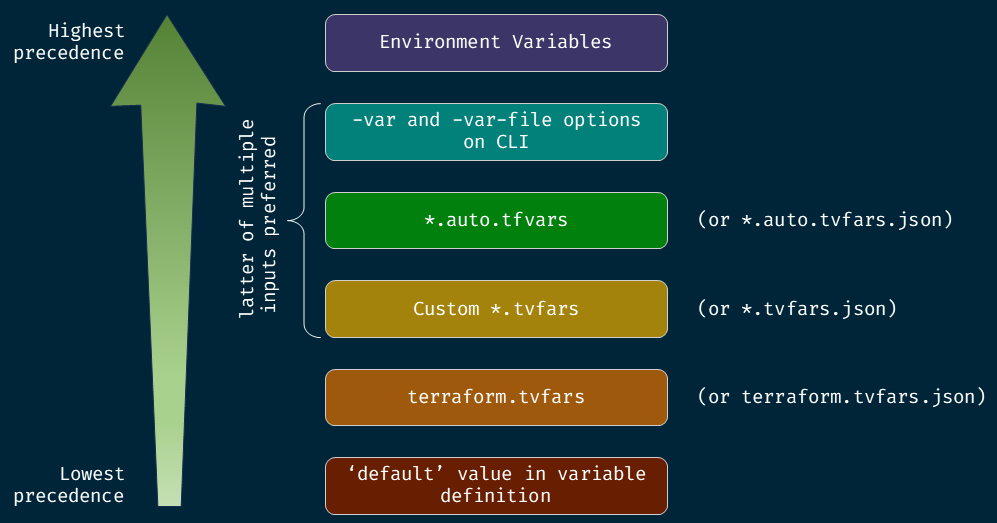
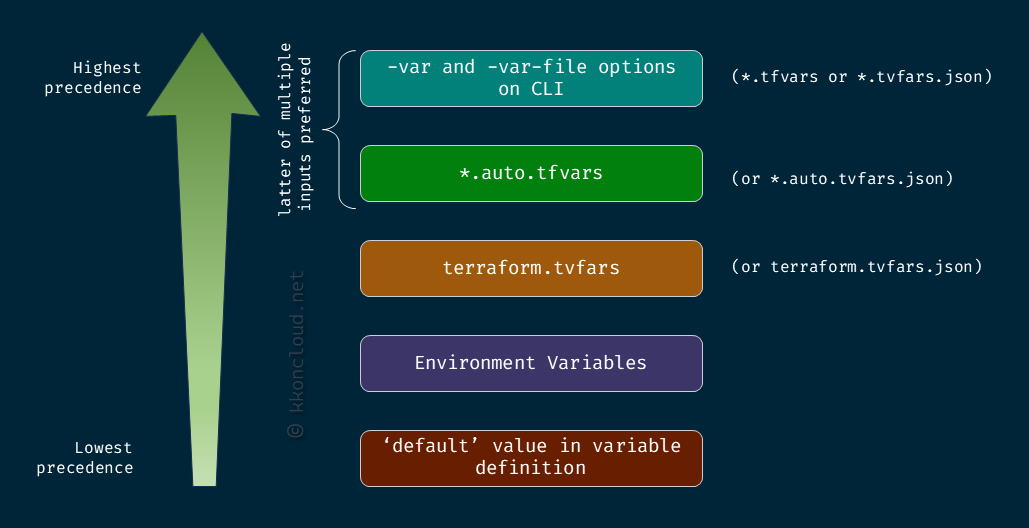
complete tf var input precedence post

diff --git a/content/posts/2023-03-04-tf-var-precedence.md b/content/posts/2023-03-04-tf-var-precedence.md
@@ -2,13 +2,299 @@
 title = 'Order of precedence of variables in Terraform'
 date = 2023-03-04
 draft = false
+tags = [
+    "terraform",
+    "iac",
+    "devops"
+    ]
+toc = true
 +++
 
-## Introduction
+## Variables in Terraform
 
-This is **bold** text, and this is *emphasized* text.
+Variables (more specifically input variables), as in most programming languages, are objects that can hold temporary values of different types that can passed to the program. They allow us to generate different outputs or functionality from a code while keeping the code consistent based on the values provided at the time of execution.
 
-Visit the [Hugo](https://gohugo.io) website!
+Since Terraform is a directory based infrastructure-as-code tool, it evaluates all of the relevant configuration files in a directory at the time of execution. Terraform configuration can be included in a single configuration file or split into multiple files for ease or organizing. This feature combined with the ability to call [modules](https://developer.hashicorp.com/terraform/language/modules) introduces a slight complexity with variables as a single variable can be declared from a host of locations.
+
+This post is to understand how duplicate varibles are evaluated and what is the order of precedence when an input variable is provided at multiple locations.
+
+![](/images/001-tf-var-precedence.png)
+
+The above image summarizes the different locations we can input variables from and the order of precedence. Let's try this out using a very basic Terraform code that takes an input variable and outputs a formatted string that shows the location of the variable.
+
+### Step 1: Current file structure and file content
+
+To test this flow, I have some Terraform config files in a folder as shown below.
+
+{{< highlight bash >}}
+> tree
+.
+├── main.tf
+├── prod.tfvars
+├── secrets.auto.tfvars
+├── shared.tfvars
+├── terraform.tfvars
+└── variables.tf
+
+0 directories, 6 files
+{{< /highlight >}}
+
+Config files `'main.tf'` and `'variables.tf'` are populated with minimal code that takes in two variables called `source_of_var_1` and `source_of_var_2` and then prints them out in the Terraform outputs. We will input the same variables from multiple locations and the variables have values in a way to help us identify which file or location Terraform is picking the variable from. The rest of the files are initially empty.
 
 
-![TF](images/001-tf-var-precedence.png)
+{{< highlight hcl >}}
+#main.tf
+
+locals {
+  finding_source_of_var_1 = var.source_of_var_1
+  finding_source_of_var_2 = var.source_of_var_2
+}
+
+output "source_of_var_out_1" {
+  value = "The source of the variable_1 is ${local.finding_source_of_var_1}"
+}
+
+output "source_of_var_out_2" {
+  value = "The source of the variable_2 is ${local.finding_source_of_var_2}"
+}
+{{< /highlight >}}
+
+{{< highlight hcl >}}
+#variables.tf
+
+variable "source_of_var_1" {
+  type = string
+  default = "file_variables.tf"
+}
+
+variable "source_of_var_2" {
+  type = string
+  default = "file_variables.tf"
+}
+{{< /highlight >}}
+
+
+### Step 2: Inputting the variable as default value in definition in variables.tf.
+To start off, I am providing default value for both of the input variables as part of the variabe definition in `'variables.tf'` as highlighted above.
+
+When I execute the Terraform code, we can see that it picks up the and outputs the correct variable as defined.
+
+{{< highlight bash >}}
+> terraform plan
+
+Changes to Outputs:
+  + source_of_var_out_1 = "The source of the variable_1 is file_variables.tf"
+  + source_of_var_out_2 = "The source of the variable_2 is file_variables.tf"
+{{< /highlight >}}
+
+### Step 3: Inputting the variable value via Environmental Variables
+Terraform has options to  set different environmental variables in our operating system that controls the Terraform log debugging level, path to save logs etc along with some input variables that can be passed on to Terraform at the time of execution. This is helpful when we have dedicated machines to run Terraform for specific workspaces/environments. This allows these variables to be securely used for deployment while being excluded from the Terraform files.
+
+First is an example of how we set the environment variables for Terraform and verify.
+
+{{< highlight bash >}}
+> export TF_VAR_source_of_var_1=environment_variables
+> export TF_VAR_source_of_var_2=environment_variables
+> > echo $TF_VAR_source_of_var_1
+environment_variables
+> > echo $TF_VAR_source_of_var_2
+environment_variables
+{{< /highlight >}}
+
+Now when we run Terraform without any additional inputs, we can see that Terraform prefers the environmental variables over the default variable definitions.
+
+{{< highlight bash >}}
+> terraform plan
+
+Changes to Outputs:
+  + source_of_var_out_1 = "The source of the variable_1 is environment_variables"
+  + source_of_var_out_2 = "The source of the variable_2 is environment_variables"
+{{< /highlight >}}
+
+### Step 4: Inputting the variable value via terraform.tfvars
+Now we keep all configuration as it is but introduce the same variable `source_of_var_1` in the file `'terraform.tfvars'` but with a different value. This is a special file that Terraform automatically picks up when executed, as long as it is in the working directory.
+
+Below are the contents of `'terraform.tfvars'`.
+
+{{< highlight hcl >}}
+#terraform.tfvars
+
+source_of_var_1 = "file_terraform.tfvars"
+{{< /highlight >}}
+
+When we execute Terraform, we can see that for the common variables present in `'variables.tf'` and `'terraform.tfvars'`, the latter is preferred but for those that are not common, Terraform falls back to the default value in `'variables.tf'` as seen below.
+
+{{< highlight bash >}}
+> terraform plan
+
+Changes to Outputs:
+  + source_of_var_out_1 = "The source of the variable_1 is file_terraform.tfvars"
+  + source_of_var_out_2 = "The source of the variable_2 is environment_variables"
+{{< /highlight >}}
+
+### Step 4: What about *.auto.tfvars files ?
+
+For some use cases where we want to input senstive variables such as passwords, we can move just those variables into a different kind of vars files named `'*.auto.tfvars'`. These can then be excluded from being checked into version-control/Github. Similar to the `'terraform.tfvars'` file which is automatically loaded by Terraform, all of the `'*.auto.tfvars'` in the working directory are loaded for use by Terraform at the time of execution. The variables in the `'*.auto.tfvars'` files have higher precedence than `'terraform.tfvars'`.
+
+I'm introducing a new value to the variable `source_of_var_1` via `'secrets.auto.tfvars'` which has been empty until now.
+
+{{< highlight hcl >}}
+#secrets.auto.tfvars
+
+source_of_var_1 = "file_secrets.auto.tfvars"
+{{< /highlight >}}
+
+The result of this on the Terraform execution is as follows.
+
+{{< highlight bash >}}
+> terraform plan
+
+Changes to Outputs:
+  + source_of_var_out_1 = "The source of the variable_1 is file_secrets.auto.tfvars"
+  + source_of_var_out_2 = "The source of the variable_2 is environment_variables"
+{{< /highlight >}}
+
+In cases of multiple `'*.auto.tfvars'` files, the common input variables are picked from the files have names that are alphabetically later/higher get more precedence. Follow the example below to understand. I'm introducing a new value to the same variable `source_of_var_1` via a new file `'top_secrets.auto.tfvars'`. Since the letter 't' is lexicographically later to the letter 's', this file shoule be more preferred than `'secrets.auto.tfvars'`.
+
+{{< highlight hcl >}}
+#top_secrets.auto.tfvars
+
+source_of_var_1 = "file_top_secrets.auto.tfvars"
+{{< /highlight >}}
+
+{{< highlight bash >}}
+> terraform plan
+
+Changes to Outputs:
+  + source_of_var_out_1 = "The source of the variable_1 is file_top_secrets.auto.tfvars"
+  + source_of_var_out_2 = "The source of the variable_2 is environment_variables"
+{{< /highlight >}}
+
+As we can see, without even mentioning the names of the `'*.auto.tfvars'` anywhere, Terraform has picked up both the `'*.auto.tfvars'` files and preferred the input variable from `'top_secrets.auto.tfvars'` as explained above.
+
+
+### Step 5: Inputting the variable values via custom variables file *.tfvars
+Now we move forward and introduce the same variable `source_of_var_1` in a custom vars file called `'prod.tfvars'`. This is a custom file and is not automatically used by Terraform at the time of execution. Such files may typically be used when introducing a few variables that need to be introduced at the time deployment in some cases but not are not part of the core/base deployment. For example, when we want to separate variables belonging to different environments such as prod, dev, stage etc.
+
+{{< highlight hcl >}}
+#prod.tfvars
+
+source_of_var_1 = "file_prod.tfvars"
+{{< /highlight >}}
+
+When we run Terraform, this value from `'prod.tfvars'` is not used by default and Terraform falls back to the next best preferences, that are `'*.auto.tfvars'` > `'terraform.tfvars'` > 'environmental variables' > 'default variable defintion', in that order.
+
+{{< highlight bash >}}
+> terraform plan
+
+Changes to Outputs:
+  + source_of_var_out_1 = "The source of the variable_1 is file_top_secrets.auto.tfvars"
+  + source_of_var_out_2 = "The source of the variable_2 is environment_variables"
+{{< /highlight >}}
+
+When using custom vars file, we need to specify the file name as an arguement in the command line.
+
+{{< highlight bash >}}
+> terraform plan -var-file="prod.tfvars"
+
+Changes to Outputs:
+  + source_of_var_out_1 = "The source of the variable_1 is file_prod.tfvars"
+  + source_of_var_out_2 = "The source of the variable_2 is environment_variables"
+{{< /highlight >}}
+
+### Step 5: What happens when there are multiple custom *.tfvars files ?
+
+While specific custom `'*.tfvars` files are required to provide specific input variables for specific isolated environments like prod, dev, stage etc, sometimes we need variables that are common to all environments such as those from shared services (*DNS, DHCP, Security components etc*). For such use cases, we may have to input an additional custom vars file (`'shared.tfvars'` in our case) to contain all the shared variables.
+
+Terraform allows us to pass names of multiple `'*.tfvars` files on the same CLI command. But what happens if there are duplicate values for some variables in some of these files? Let's test it out.
+
+I'm adding new values to the variables in `'shared.tfvars'` and the contents of both the `'*.tfvars` are shown combined here for brevity.
+
+{{< highlight hcl >}}
+#prod.tfvars
+
+source_of_var_1 = "file_prod.tfvars"
+
+------------------------------------------------------------------------
+
+#shared.tfvars
+
+source_of_var_1 = "file_shared.tfvars"
+source_of_var_2 = "file_shared.tfvars"
+
+{{< /highlight >}}
+
+ When we pass both files to Terraform as input arguments on the CLI, it uses all the variables from both files that are not common but for the common variables, it only picks the ones passed on later in the CLI command. Follow the two CLI command examples and their output to understand this.
+
+{{< highlight bash >}}
+# Example 1: prod.tfvars first and then shared.tfvars
+> terraform plan -var-file="prod.tfvars" -var-file="shared.tfvars"
+
+Changes to Outputs:
+  + source_of_var_out_1 = "The source of the variable_1 is file_shared.tfvars"
+  + source_of_var_out_2 = "The source of the variable_2 is file_shared.tfvars"
+
+-------------------------------------------------------------------------
+# Example 2: shared.tfvars first and then prod.tfvars
+
+> terraform plan -var-file="shared.tfvars" -var-file="prod.tfvars"
+
+Changes to Outputs:
+  + source_of_var_out_1 = "The source of the variable_1 is file_prod.tfvars"
+  + source_of_var_out_2 = "The source of the variable_2 is file_shared.tfvars"
+{{< /highlight >}}
+
+
+
+### Step 5: Inputting the variable values via CLI command
+
+Even after organizing our different variables in the appropriate files, there may be use cases where we have to input variables via the command line invocation. This may be the case where we have just one or two variables and don't need to add them in a file or we need to input passwords at the time of execution instead of saving them in a file. Terraform allows us to do this via the `'-var'` argument. This takes a higher precedence over all the files we have discussed until now.
+
+The current status as per the file structure we have created until now is as follows:
+- Without any command line arguments we have `*.auto.tfvars` > `terraform.tfvars` > 'default variable definition'
+- With CLI arguments we have `*.tfvars` > `*.auto.tfvars` > `terraform.tfvars` > 'default variable definition'
+
+{{< highlight bash >}}
+> terraform plan
+
+Changes to Outputs:
+  + source_of_var_out_1 = "The source of the variable_1 is file_top_secrets.auto.tfvars"
+  + source_of_var_out_2 = "The source of the variable_2 is environment_variables"
+{{< /highlight >}}
+
+I am going to manually input the same variable `source_of_var_1` on the CLI as an argument.
+
+{{< highlight bash >}}
+> terraform plan -var="source_of_var_1=first_cli_input"
+
+Changes to Outputs:
+  + source_of_var_out_1 = "The source of the variable_1 is first_cli_input"
+  + source_of_var_out_2 = "The source of the variable_2 is environment_variables"
+{{< /highlight >}}
+
+What if we have two manual inputs as CLI arguments"? Similar to the file inputs, the latter one takes the precedence.
+
+{{< highlight bash >}}
+> terraform plan -var="source_of_var_1=first_cli_input" -var="source_of_var_1=second_cli_input"
+
+Changes to Outputs:
+  + source_of_var_out_1 = "The source of the variable_1 is second_cli_input"
+  + source_of_var_out_2 = "The source of the variable_2 is environment_variables"
+{{< /highlight >}}
+
+What if we have one manual input and one `'*.tfvars'` file as CLI arguments? The same logic applies as the latter input gets precedence. A few examples to show that are below.
+
+{{< highlight bash >}}
+> terraform plan -var="source_of_var_1=first_cli_input" -var-file="prod.tfvars"
+
+Changes to Outputs:
+  + source_of_var_out_1 = "The source of the variable_1 is file_prod.tfvars"
+  + source_of_var_out_2 = "The source of the variable_2 is environment_variables"
+
+-------------------------------------------------------------------------
+> terraform plan -var-file="prod.tfvars" -var="source_of_var_1=first_cli_input"
+
+Changes to Outputs:
+  + source_of_var_out_1 = "The source of the variable_1 is first_cli_input"
+  + source_of_var_out_2 = "The source of the variable_2 is environment_variables"
+{{< /highlight >}}
